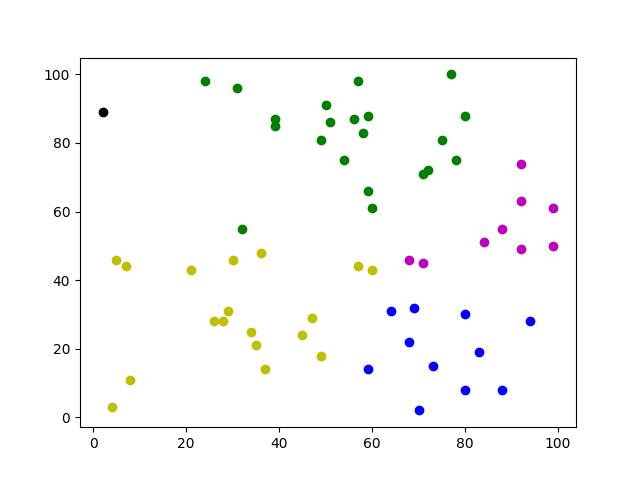
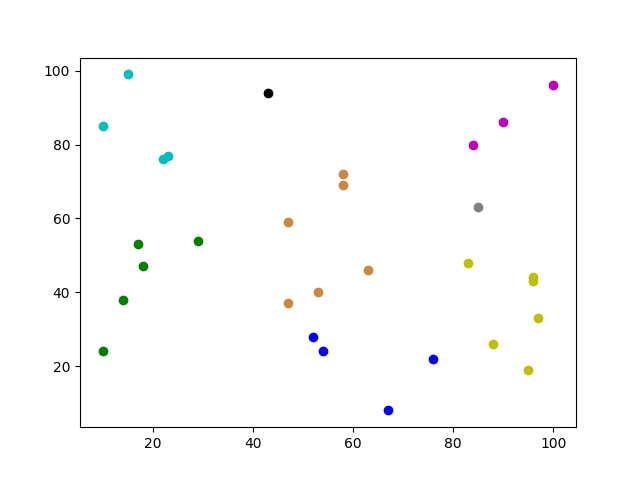
fixed bugs, added colors, impoved plot saving, set m, epsilon

diff --git a/lesson4/dbscan.py b/lesson4/dbscan.py
@@ -27,11 +27,10 @@ def cluster_expand(point, neighbors, cluster, points, eps, m):
             candidate.cluster = cluster
 
 
-# todo: improve
 def find_neighbors(point, points, eps):
     result = set()
     for candidate in points:
-        if candidate != point and dist(point.x, point.y, candidate.x, candidate.y) <= eps:
+        if dist(point.x, point.y, candidate.x, candidate.y) <= eps:
             result.add(candidate)
     return result
 
@@ -40,10 +39,10 @@ def noise_distribution(points):
     for noise in points:
         if noise.noise:
             noise.noise = False
-            min_dist = 100
+            min_dist = 1000
             for point in points:
-                current_min = dist(noise.x, noise.y, point.x, point.y)
-                if point != noise and min_dist > current_min:
-                    noise.cluster = point.cluster
-                    min_dist = current_min
-
+                if not point.noise:
+                    current_min = dist(noise.x, noise.y, point.x, point.y)
+                    if point != noise and min_dist > current_min:
+                        noise.cluster = point.cluster
+                        min_dist = current_min

diff --git a/lesson4/dbscan_test.py b/lesson4/dbscan_test.py
@@ -5,7 +5,7 @@ from lesson4.domain import Point
 
 import matplotlib.pyplot as plt
 
-n = 60
+n = 30
 points = [Point(random.randint(1, 100), random.randint(1, 100)) for i in range(n)]
 
 color_map = {
@@ -15,12 +15,15 @@ color_map = {
     3: 'y',
     4: 'm',
     5: 'c',
-    6: 'peru'
-
+    6: 'peru',
+    7: 'gray',
+    8: 'indigo',
+    9: 'lime',
+    10: 'pink'
 }
 
 
-def show(result):
+def show(result, save):
     noise_exists = False
     for point in result:
         if point.noise:
@@ -29,16 +32,18 @@ def show(result):
         else:
             color = color_map[point.cluster]
         plt.scatter(point.x, point.y, color=color)
-    if noise_exists:
+    if noise_exists and save:
         plt.savefig("with_noise.png")
-    else:
+    elif save:
         plt.savefig("without_noise.png")
     plt.show()
 
 
-dbscan(points, 40, 7)
+m = 2  # default
+epsilon = 25  # can change
+dbscan(points, epsilon, m)
 print('cluster count: ', len(set(map(lambda e: e.cluster, filter(lambda e: e.cluster is not None, points)))))
-show(points)
+show(points, False)
 
 noise_distribution(points)
-show(points)
+show(points, False)
